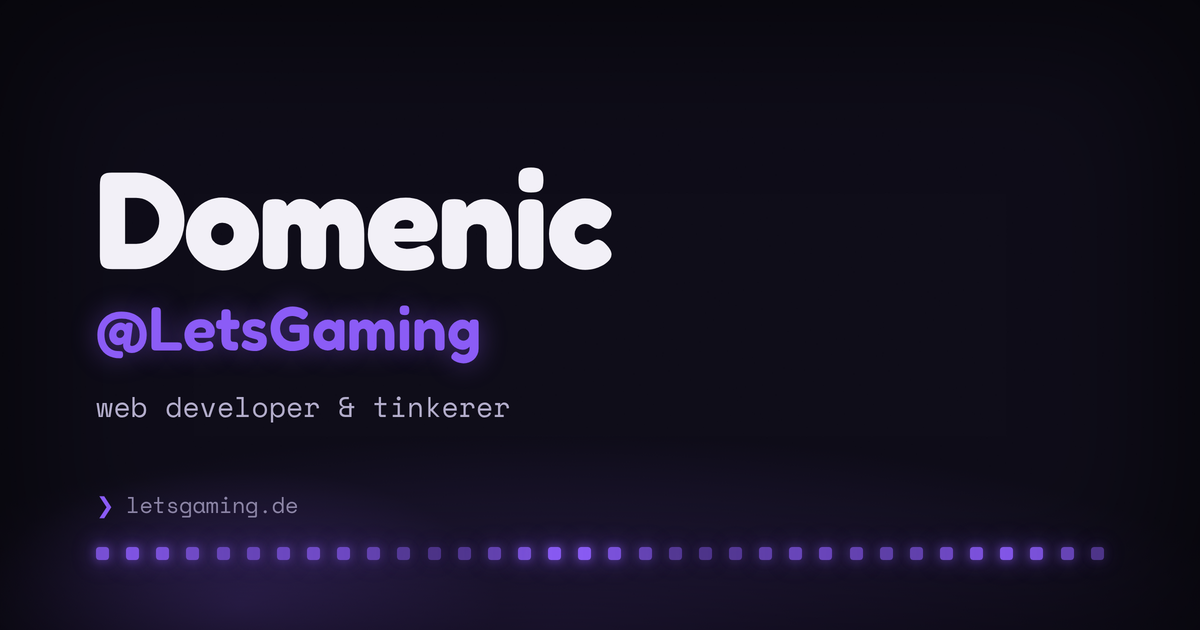
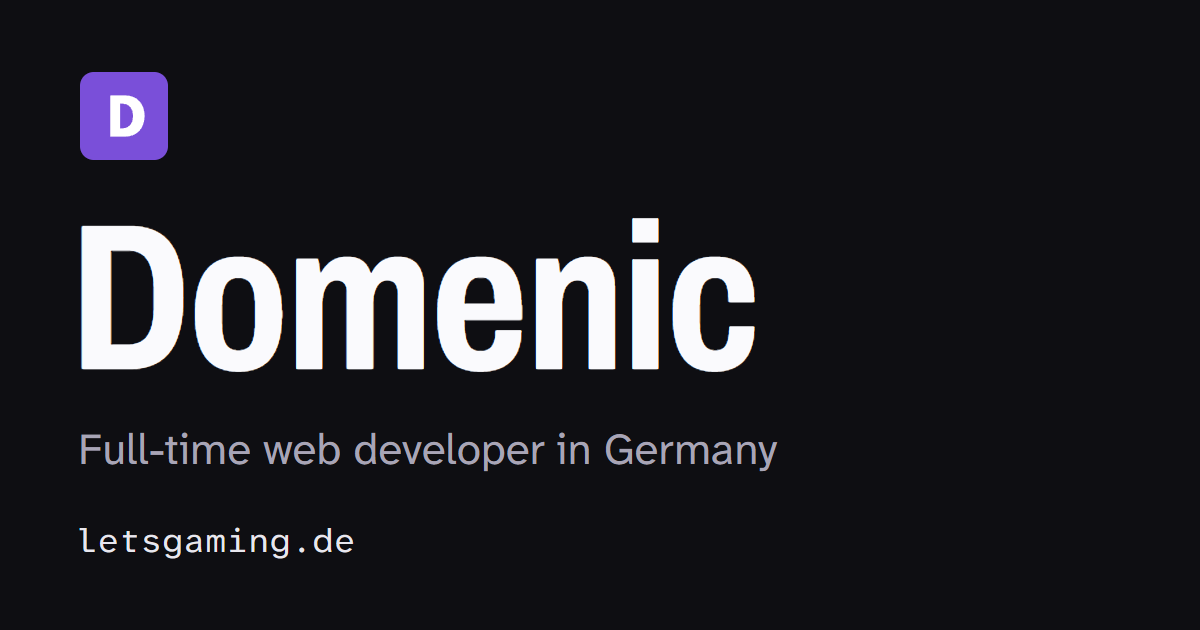
feat: generate the social preview card from the design tokens

diff --git a/apps/web/scripts/gen-og.ts b/apps/web/scripts/gen-og.ts
@@ -1,0 +1,88 @@
+/**
+ * Regenerate the social preview card, `src/public/og-image.png` (1200 x 630).
+ *
+ *   pnpm --filter=@lg/web gen:og
+ *
+ * Run it when the design tokens, the fonts, the favicon or the facts below
+ * change, then commit the PNG. It is not part of `pnpm build`: a build image has
+ * no browser, and the card changes about as often as the favicon does.
+ *
+ * Colours come from `tokens.css` and the mark from `favicon.svg`, so the card
+ * cannot drift from the site. The fonts are the self-hosted Fontsource files,
+ * inlined as data URIs so the page needs no server.
+ *
+ * It drives a browser that is already installed (Edge, then Chrome). Set
+ * OG_BROWSER_PATH to use another executable.
+ */
+import { readFileSync, writeFileSync } from "node:fs";
+import { dirname, resolve } from "node:path";
+import { fileURLToPath } from "node:url";
+import { chromium } from "playwright-core";
+
+const NAME = "Domenic";
+const LINE = "Full-time web developer in Germany";
+const DOMAIN = "letsgaming.de";
+
+const here = dirname(fileURLToPath(import.meta.url));
+const root = resolve(here, "..");
+const target = resolve(root, "src/public/og-image.png");
+
+const tokens = readFileSync(resolve(root, "src/styles/tokens.css"), "utf8");
+const darkBlock = tokens.slice(tokens.indexOf(":root {"), tokens.indexOf('[data-theme="light"] {'));
+const token = (name: string): string => {
+  const hit = new RegExp(`--${name}:\\s*(#[0-9a-fA-F]{3,8})\\b`).exec(darkBlock);
+  if (!hit?.[1]) throw new Error(`token --${name} not found in the dark block of tokens.css`);
+  return hit[1];
+};
+
+const font = (pkg: string, file: string): string =>
+  readFileSync(resolve(root, `node_modules/@fontsource-variable/${pkg}/files/${file}`)).toString("base64");
+
+const display = font("archivo", "archivo-latin-wdth-normal.woff2");
+const body = font("atkinson-hyperlegible-next", "atkinson-hyperlegible-next-latin-wght-normal.woff2");
+const mono = font("atkinson-hyperlegible-mono", "atkinson-hyperlegible-mono-latin-wght-normal.woff2");
+const mark = readFileSync(resolve(root, "src/public/favicon.svg"), "utf8").replace(
+  /<svg [^>]*>/,
+  '<svg xmlns="http://www.w3.org/2000/svg" viewBox="0 0 64 64" width="88" height="88">',
+);
+
+const html = `<!doctype html>
+<meta charset="utf-8">
+<style>
+@font-face { font-family: "Archivo"; src: url(data:font/woff2;base64,${display}) format("woff2"); font-weight: 100 900; font-stretch: 62% 125%; }
+@font-face { font-family: "Atkinson Hyperlegible Next"; src: url(data:font/woff2;base64,${body}) format("woff2"); font-weight: 200 800; }
+@font-face { font-family: "Atkinson Hyperlegible Mono"; src: url(data:font/woff2;base64,${mono}) format("woff2"); font-weight: 200 800; }
+* { margin: 0; box-sizing: border-box; }
+html, body { width: 1200px; height: 630px; }
+body { position: relative; overflow: hidden; background: ${token("surf-0")}; }
+.mark { position: absolute; left: 80px; top: 72px; line-height: 0; }
+.name { position: absolute; left: 70px; top: 196px; font-family: "Archivo"; font-weight: 700; font-stretch: 75%; font-size: 208px; line-height: 1; letter-spacing: -0.01em; color: ${token("ink-strong")}; }
+.line { position: absolute; left: 78px; top: 424px; font-family: "Atkinson Hyperlegible Next"; font-weight: 400; font-size: 44px; line-height: 1.2; color: ${token("muted")}; }
+.domain { position: absolute; left: 76px; bottom: 72px; font-family: "Atkinson Hyperlegible Mono"; font-weight: 400; font-size: 34px; line-height: 1; color: ${token("ink")}; }
+</style>
+<div class="mark">${mark}</div>
+<div class="name">${NAME}</div>
+<div class="line">${LINE}</div>
+<div class="domain">${DOMAIN}</div>`;
+
+const launch = async () => {
+  const executablePath = process.env.OG_BROWSER_PATH;
+  if (executablePath) return chromium.launch({ executablePath });
+  try {
+    return await chromium.launch({ channel: "msedge" });
+  } catch {
+    return await chromium.launch({ channel: "chrome" });
+  }
+};
+
+const browser = await launch();
+try {
+  const page = await browser.newPage({ viewport: { width: 1200, height: 630 }, deviceScaleFactor: 1 });
+  await page.setContent(html);
+  await page.evaluate(() => document.fonts.ready);
+  const png = await page.screenshot({ type: "png", clip: { x: 0, y: 0, width: 1200, height: 630 } });
+  writeFileSync(target, png);
+  console.log(`✓ wrote ${target} (${(png.length / 1024).toFixed(1)} KB)`);
+} finally {
+  await browser.close();
+}

diff --git a/apps/web/tests/og-image.test.ts b/apps/web/tests/og-image.test.ts
@@ -1,0 +1,22 @@
+import { readFileSync } from "node:fs";
+import { resolve } from "node:path";
+import { describe, expect, it } from "vitest";
+import { OG_IMAGE_PATH } from "../src/lib/site-meta";
+
+const png = readFileSync(resolve(process.cwd(), "src/public/og-image.png"));
+
+describe("social preview card", () => {
+  it("is a 1200 x 630 PNG", () => {
+    expect(png.subarray(1, 4).toString("ascii")).toBe("PNG");
+    expect(png.readUInt32BE(16)).toBe(1200);
+    expect(png.readUInt32BE(20)).toBe(630);
+  });
+
+  it("stays small enough for every platform (under 300 KB)", () => {
+    expect(png.length).toBeLessThan(300 * 1024);
+  });
+
+  it("is served from the committed file, with a cache-busting query", () => {
+    expect(OG_IMAGE_PATH).toMatch(/^\/og-image\.png\?v=\d+$/);
+  });
+});

diff --git a/apps/web/src/pages/md/[...slug].vue b/apps/web/src/pages/md/[...slug].vue
@@ -10,6 +10,7 @@
 import Breadcrumbs, { type Crumb } from "~/components/ui/Breadcrumbs.vue";
 import { articleLd, breadcrumbLd, type Locale, type SiteView } from "@lg/core";
 import { useSeo } from "~/composables/useSeo";
+import { OG_IMAGE_PATH } from "~/lib/site-meta";
 import { useRuntimeConfig } from "#imports";
 
 interface MdDoc {
@@ -73,7 +74,7 @@ useSeo({
           datePublished: data.value.at,
           description: description.value,
           keywords: data.value.tags,
-          image: `${origin}/og-image.png`,
+          image: `${origin}${OG_IMAGE_PATH}`,
           author: {
             name: siteData.value?.site.meta.name ?? "",
             url: origin,

diff --git a/apps/web/src/composables/useSeo.ts b/apps/web/src/composables/useSeo.ts
@@ -1,5 +1,6 @@
 import { useHead, useRuntimeConfig } from "#imports";
 import { buildSeoTags, personLd, websiteLd, type Locale, type SiteView } from "@lg/core";
+import { OG_IMAGE_PATH } from "~/lib/site-meta";
 
 /**
  * Turn a page's identity into the head tags a search engine and a link-unfurler
@@ -49,7 +50,7 @@ export function useSeo(opts: {
     ogType: opts.ogType,
     // A dedicated share card served from the build's own assets — self-hosted and
     // versioned with the site, same rule as the fonts.
-    image: "/og-image.png",
+    image: OG_IMAGE_PATH,
     localized: opts.localized,
     twitterHandle: identity?.handle,
   });

diff --git a/apps/web/src/lib/site-meta.ts b/apps/web/src/lib/site-meta.ts
@@ -15,6 +15,9 @@
  * per-area from the CMS, and that needs a `description` field on the area
  * content model. Until then, one accurate sentence beats four useless ones.
  */
+/** The social preview card. `?v=` busts the caches platforms keep; raise it when `gen:og` changes the picture. */
+export const OG_IMAGE_PATH = "/og-image.png?v=2";
+
 export const SITE_DESCRIPTION =
   "Personal homepage of Domenic (@LetsGaming), full-time web developer in Germany. " +
   "Code, games and music, updated from GitHub, Wakapi and Discord.";

diff --git a/docs/reference/og-image.md b/docs/reference/og-image.md
@@ -1,0 +1,31 @@
+# Social preview card
+
+`apps/web/src/public/og-image.png` is the picture platforms show when someone shares a link to the site. Every page uses it as `og:image` and `twitter:image`, and the blog template also uses it as the Article image in its structured data. The path in code is `OG_IMAGE_PATH` in `apps/web/src/lib/site-meta.ts`.
+
+The file is committed and self-hosted, like the fonts. It is generated, not drawn.
+
+## Regenerate
+
+```bash
+pnpm --filter=@lg/web gen:og
+```
+
+Run it when the tokens, the fonts, the favicon, or the three facts at the top of `apps/web/scripts/gen-og.ts` change. Then commit the PNG and raise the `?v=` number in `OG_IMAGE_PATH`, so platforms fetch the new picture instead of their cached copy.
+
+The script needs Edge or Chrome on the machine. It uses `playwright-core`, which does not download a browser. Set `OG_BROWSER_PATH` to use another executable. It is not part of `pnpm build`, because a build image has no browser.
+
+## Spec
+
+- Size: 1200 x 630, PNG, under 300 KB (a test checks size and dimensions). The current file is about 36 KB.
+- Ground: `--surf-0` (dark). No glow and no gradient.
+- Name: Archivo 700, width 75, 208px, `--ink-strong`.
+- Role line: Atkinson Hyperlegible Next 44px, `--muted`. It states only facts that are on the site: "Full-time web developer in Germany".
+- Domain: Atkinson Hyperlegible Mono 34px, `--ink`.
+- Mark: the favicon (`apps/web/src/public/favicon.svg`), top left, 88px. It is brand identity, not a live signal, so it is the only violet on the card.
+- Safe area: keep text inside the centre 1200 x 600 with at least 70px margins, because X crops the card to 2:1.
+
+Colours are read from `tokens.css` and the mark from `favicon.svg` when the script runs, so the card follows the site.
+
+## After a change
+
+Platforms cache the old picture. Raising `?v=` helps with most. X, LinkedIn and Facebook also have debugger tools where a URL can be re-scraped. (This caching behaviour is from general knowledge, not measured here.)

diff --git a/docs/plans/2026-11-18-redesign-letsgaming-de-research-design-system-audi.md b/docs/plans/2026-11-18-redesign-letsgaming-de-research-design-system-audi.md
@@ -561,3 +561,4 @@ committed) using the WCAG 2.x formula on the final token values.
   - The range pickers on Time played and Listening look tight at 390px. Not changed.
 - Step 10 done. Removed `--fs-section`, `--fs-micro` (CMS keeps its own), `--sp-section`; public files use `--fs-meta` and `--fs-h2`. Kept: `--sp-*` (still used by components and the CMS), `--r-anchor/card/control/chip` aliases (CMS compat block), `.dash`/`.grid`/`.card` globals (not proven unused, so not deleted). `docs/concepts/design-system.md` now points to `apps/web/DESIGN.md` for values. Checklist results and open owner items are in `apps/web/DESIGN-AUDIT.md`.
 - Plan complete. Gates green on the final tree: `lint:nav`, `lint:tokens`, `typecheck`, `test`, `build`.
+- Follow-up (owner chose option B): `og-image.png` is now generated by `apps/web/scripts/gen-og.ts` (`pnpm --filter=@lg/web gen:og`). Dependency added: `playwright-core` (dev, apps/web). Justification against its cost: it downloads no browser, it renders the real fonts including Archivo's width axis (an SVG or satori pipeline cannot), and the only upkeep is one script of about 90 lines that runs on demand. It is deliberately not part of `pnpm build`: a build image has no browser, so this follows the `gen:fallback` pattern (generated, committed). The old card (glow text, Fredoka, "web developer & tinkerer", glowing dots) is replaced by a flat card: name, role line, domain, favicon mark. Added `OG_IMAGE_PATH` (`/og-image.png?v=2`) in `site-meta.ts`, used by `useSeo.ts` and the blog JSON-LD, and a guard test (`tests/og-image.test.ts`). The ADR 0017 pointer to the missing `README-og-image.md` now points to `docs/reference/og-image.md`.

diff --git a/apps/web/DESIGN-AUDIT.md b/apps/web/DESIGN-AUDIT.md
@@ -80,7 +80,7 @@ Method: greps over public source (CMS excluded), a contrast script that reads th
 ## Open items for the owner
 
 1. Paste `docs/research/2026-11-18-copy-sheet.md` into the production CMS. Seed edits do not reach the live database.
-2. Replace `apps/web/src/public/og-image.png` (raster, still the old look).
+2. ~~Replace `apps/web/src/public/og-image.png`~~ Done. It is now generated by `pnpm --filter=@lg/web gen:og` (see `docs/reference/og-image.md`). Still to do on your side: re-scrape the URL in the X, LinkedIn and Facebook debuggers.
 3. Review the German legal text dashes in `datenschutz.vue`.
 4. The About page "Contact" link points at its own section. Decide whether it should open the form, or go.
 5. Run `/impeccable document` to refresh `apps/web/.impeccable/design.json`, which still describes the old system.

diff --git a/docs/adr/0017-seo-metadata.md b/docs/adr/0017-seo-metadata.md
@@ -69,7 +69,7 @@ unlinked and absent from the sitemap; naming it in a public file would undo that
   explicitly, which is the point.
 - `/og-image.png` is a committed asset, self-hosted and versioned with the site —
   same rule as the fonts, no third-party CDN. Its spec lives beside it in
-  `apps/web/src/public/README-og-image.md`.
+  `docs/reference/og-image.md`, and the generator is `pnpm --filter=@lg/web gen:og`.
 - Structured data publishes the owner's name, handle, role and public profile
   links. That is deliberately published information about the site owner; no
   visitor data is involved, so it changes nothing in the privacy posture
